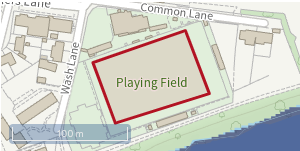
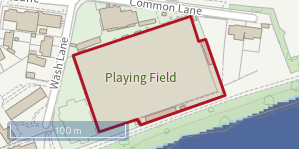
Added a more complicated polygon for the fz1 journey

diff --git a/app/assets/javascripts/application-new.js b/app/assets/javascripts/application-new.js
@@ -63,11 +63,15 @@ $(document).ready(function () {
     } else if (classList.contains('map--fz1')) {
       return {
         polygon: new ol.geom.Polygon([[
-          [-286174.43623254425,7053067.554461638],
-          [-286017.1270941105,7053124.874194159],
-          [-285979.7133411567,7053023.488355808],
-          [-286138.86797365965,7052966.762035848],
-          [-286174.43623254425,7053067.554461638]
+          [-286181.90009821305, 7053073.333101019],
+          [-286013.3307608251, 7053131.972235377],
+          [-285998.6520516036, 7053094.255282374],
+          [-285989.94844777836, 7053098.242221429],
+          [-285964.96446314506, 7053012.778769246],
+          [-286092.79031367914, 7052968.334095778],
+          [-286094.0053811668, 7052977.082712902],
+          [-286142.9987669509, 7052958.794593168],
+          [-286181.90009821305, 7053073.333101019]
         ]]),
         center: [-285799.8,7053023.498395808]
       }
